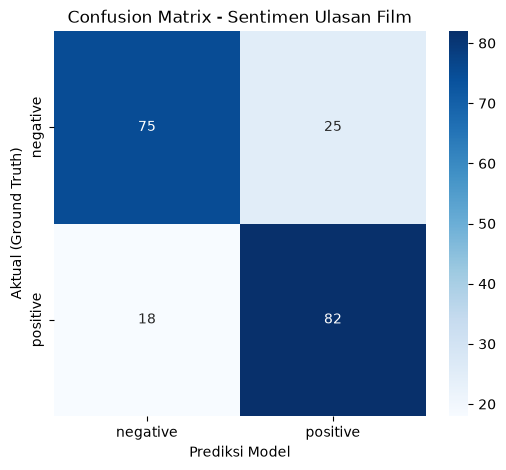
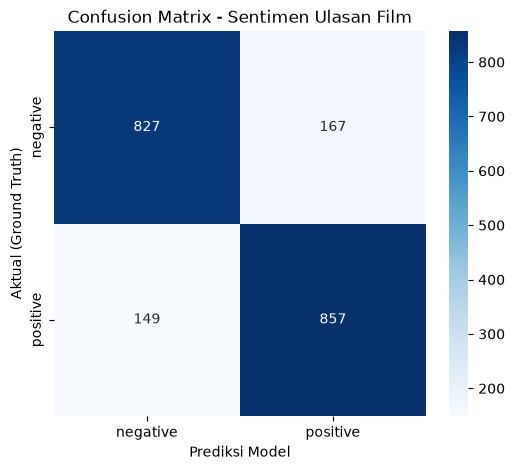
update data to make better accuracy

diff --git a/scripts/translator.py b/scripts/translator.py
@@ -71,8 +71,7 @@ def translate_movie_reviews(input_file, output_file, max_rows=1000):
 
 # --- Cara Menjalankan Skrip ---
 if __name__ == "__main__":
-    # Sesuaikan 'nama_file_input.csv' dengan nama file asli bahasa Inggris Anda
-    FILE_INPUT = "dataset/IMDB Dataset.csv" 
-    FILE_OUTPUT = "dataset/IMDB Dataset_Indonesia.csv"
+    FILE_INPUT = "data/raw/IMDB Dataset.csv" 
+    FILE_OUTPUT = "data/processed/IMDB Dataset_Indonesia.csv"
     
-    translate_movie_reviews(FILE_INPUT, FILE_OUTPUT)
+    translate_movie_reviews(FILE_INPUT, FILE_OUTPUT, max_rows=5000)

diff --git a/scripts/train_model.py b/scripts/train_model.py
@@ -98,10 +98,10 @@ if __name__ == "__main__":
         print(f"Bentuk representasi vectorizer X_train_vec: {X_train_vec.shape}")
         print(f"Bentuk representasi vectorizer X_test_vec: {X_test_vec.shape}")
         
-        # 1.6 — Pelatihan Model SVM
+        # 1.6 — Pelatihan Model SVM (Konfigurasi Final)
         print("\n--- Memulai Tahap 1.6: Pelatihan Model SVM ---")
-        print("Melatih model SVM (Linear Kernel)...")
-        model_svm = SVC(kernel='linear', C=1.0, probability=True)
+        print("Melatih model SVM (Linear Kernel, C=1.0)...")
+        model_svm = SVC(kernel='linear', C=1.0)
         model_svm.fit(X_train_vec, y_train)
         print("Pelatihan model SVM selesai!")
         

diff --git a/src/preprocess.py b/src/preprocess.py
@@ -9,6 +9,10 @@ stop_words = set(factory.get_stop_words())
 custom_stopwords = {'yg', 'dg', 'dr', 'dgn', 'saja', 'movie', 'film', 'br', 'nya', 'bahwa', 'ke'}
 stop_words.update(custom_stopwords)
 
+# Mengeluarkan kata-kata negasi penting dari stopwords agar tidak dihapus (Negation Handling)
+negation_words = {'tidak', 'bukan', 'tanpa', 'kurang', 'jangan', 'tiada', 'belum', 'tak', 'tidaklah', 'bukanlah'}
+stop_words = stop_words - negation_words
+
 def clean_text(text):
     """
     Melakukan pra-pemrosesan teks (preprocessing) Bahasa Indonesia: